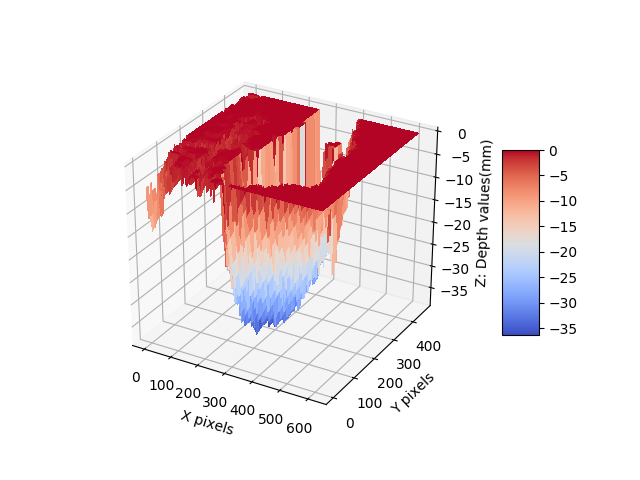
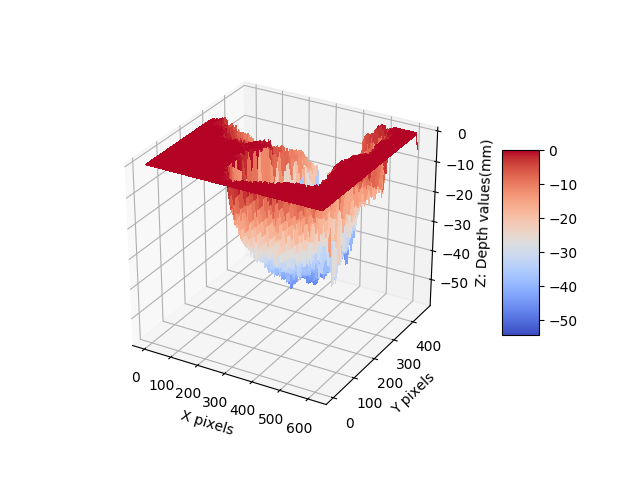
fixed the threshold function and main function

diff --git a/threshold.py b/threshold.py
@@ -9,7 +9,7 @@ import numpy
 import random
 import math
 
-def threshold (THRESHOLD, TOLERANCE, N_ITERATIONS):
+def threshold (THRESHOLD, TOLERANCE, N_ITERATIONS, points, bbox):
     #run ransac on dataset B (2nd trial)
     #code taken from https://github.com/minghuam/point-visualizer/blob/master/point_visualizer.py
     #http://www.cse.yorku.ca/~kosta/CompVis_Notes/ransac.pdf
@@ -17,8 +17,6 @@ def threshold (THRESHOLD, TOLERANCE, N_ITERATIONS):
     #TOLERANCE = 0.78 #5 #removing hard coding
     # ratio of inliers
     #THRESHOLD = 0.05 #removing hard coding
-    global points
-    global bbox
     N_ITERATIONS = 1000
     iterations = 0
     solved = 0
